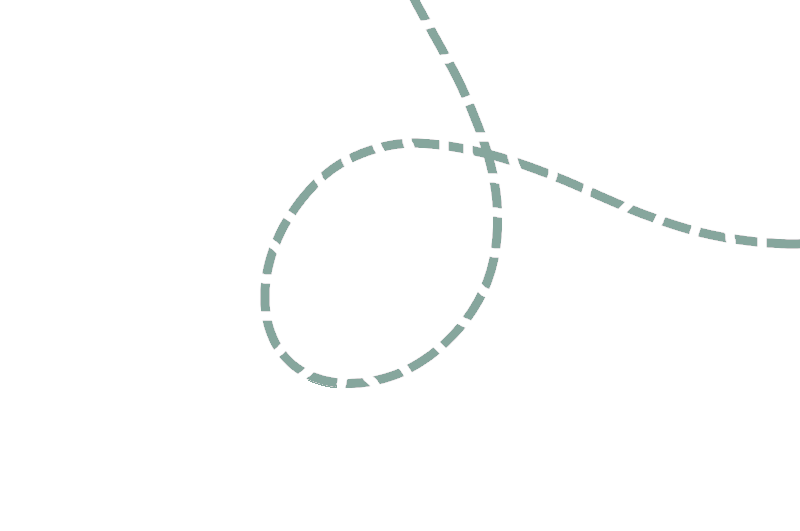
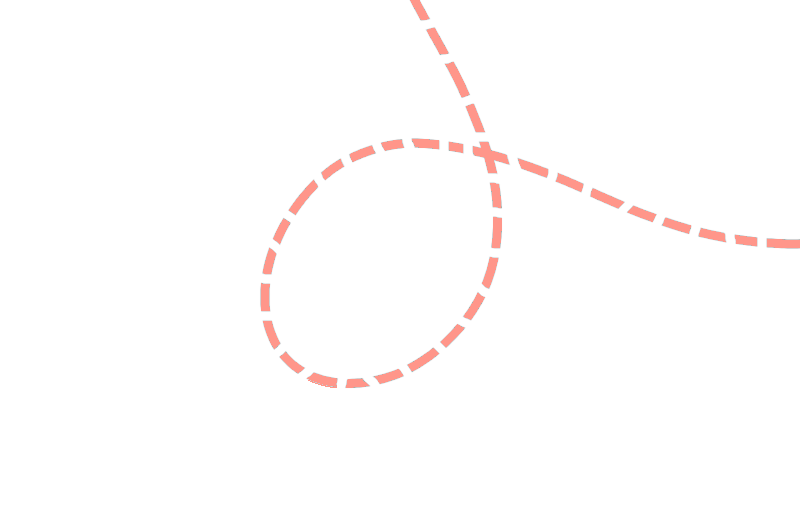
change dot color + add meta laptop

diff --git a/style.css b/style.css
@@ -7,8 +7,9 @@ h2 {
     font-size: 75px;
     margin: 0.5em;
     font-family: 'Amatic SC', cursive;
-    color: #86A69D;
+    color: #FF968A;
     text-align: center;
+    font-weight: bold;
 }
 
 h3 {
@@ -16,7 +17,7 @@ h3 {
     margin: 2em;
     margin-bottom: 0.5em;
     font-family: 'Amatic SC', cursive;
-    color: #86A69D;
+    color: #FF968A;
 }
 
 h4 {
@@ -24,15 +25,12 @@ h4 {
     text-align: left;
     margin: 0.8em;
     font-family: 'Amatic SC', cursive;
-    color: #86A69D;
+    color: #FF968A;
 }
 
 p {
-    color: #A3ACB5;
-}
-
-.adventure {
-    text-align: center;
+    color: rgb(135, 140, 146);
+    font-size: 20px;
 }
 
 .adventure p {
@@ -46,7 +44,7 @@ p {
     border-radius: 5%;
 }
 
-.presentation p {
+.presentation p, .adventure {
     text-align: center;
 }
 
@@ -60,7 +58,7 @@ p {
     background-image: url(image/backgroundT.jpg);
     background-repeat: no-repeat;
     background-size: 100%;
-    background-position: top;
+    background-position: center;
 }
 
 .grid {
@@ -101,7 +99,7 @@ p {
     width: 100%;
    }
 
-       /********* Hover image et texte *******/
+       /* Hover image et texte */
     /* Overlay */
     .overlay-image .hover {
         position: absolute;
@@ -131,24 +129,7 @@ p {
         color: rgb(148, 147, 147, 0.7);
     }
 
-   /* input[type=checkbox] {
-        display: none;
-      }
-      
-      .myPicture img {
-        margin: 1em;
-        transition: transform 0.25s ease;
-        cursor: zoom-in;
-        width: 610px;
-        height: 433px;
-      }
-      
-      input[type=checkbox]:checked ~ label > img {
-        transform: scale(2);
-        cursor: zoom-out;
-      }*/
-
-@media screen and (max-width:961px) {
+@media screen and (max-width:760px) {
 
     h3 {
         font-size: 50px;
@@ -174,7 +155,7 @@ p {
         margin: 0.5em 0;
     }
     
-    .adventure img {
+    img {
         display: flex;
         flex-direction: column;
         justify-content: center;

diff --git a/portfolio.html b/portfolio.html
@@ -2,6 +2,7 @@
 <html lang="en">
     <head>
         <meta charset="UTF-8">
+        <meta name="viewport" content="width=device-width,initial-scale=1">
         <title>project-1</title>
         <link href="https://fonts.googleapis.com/css?family=Amatic+SC&display=swap" rel="stylesheet"> 
         <link rel="stylesheet" href="style.css">
